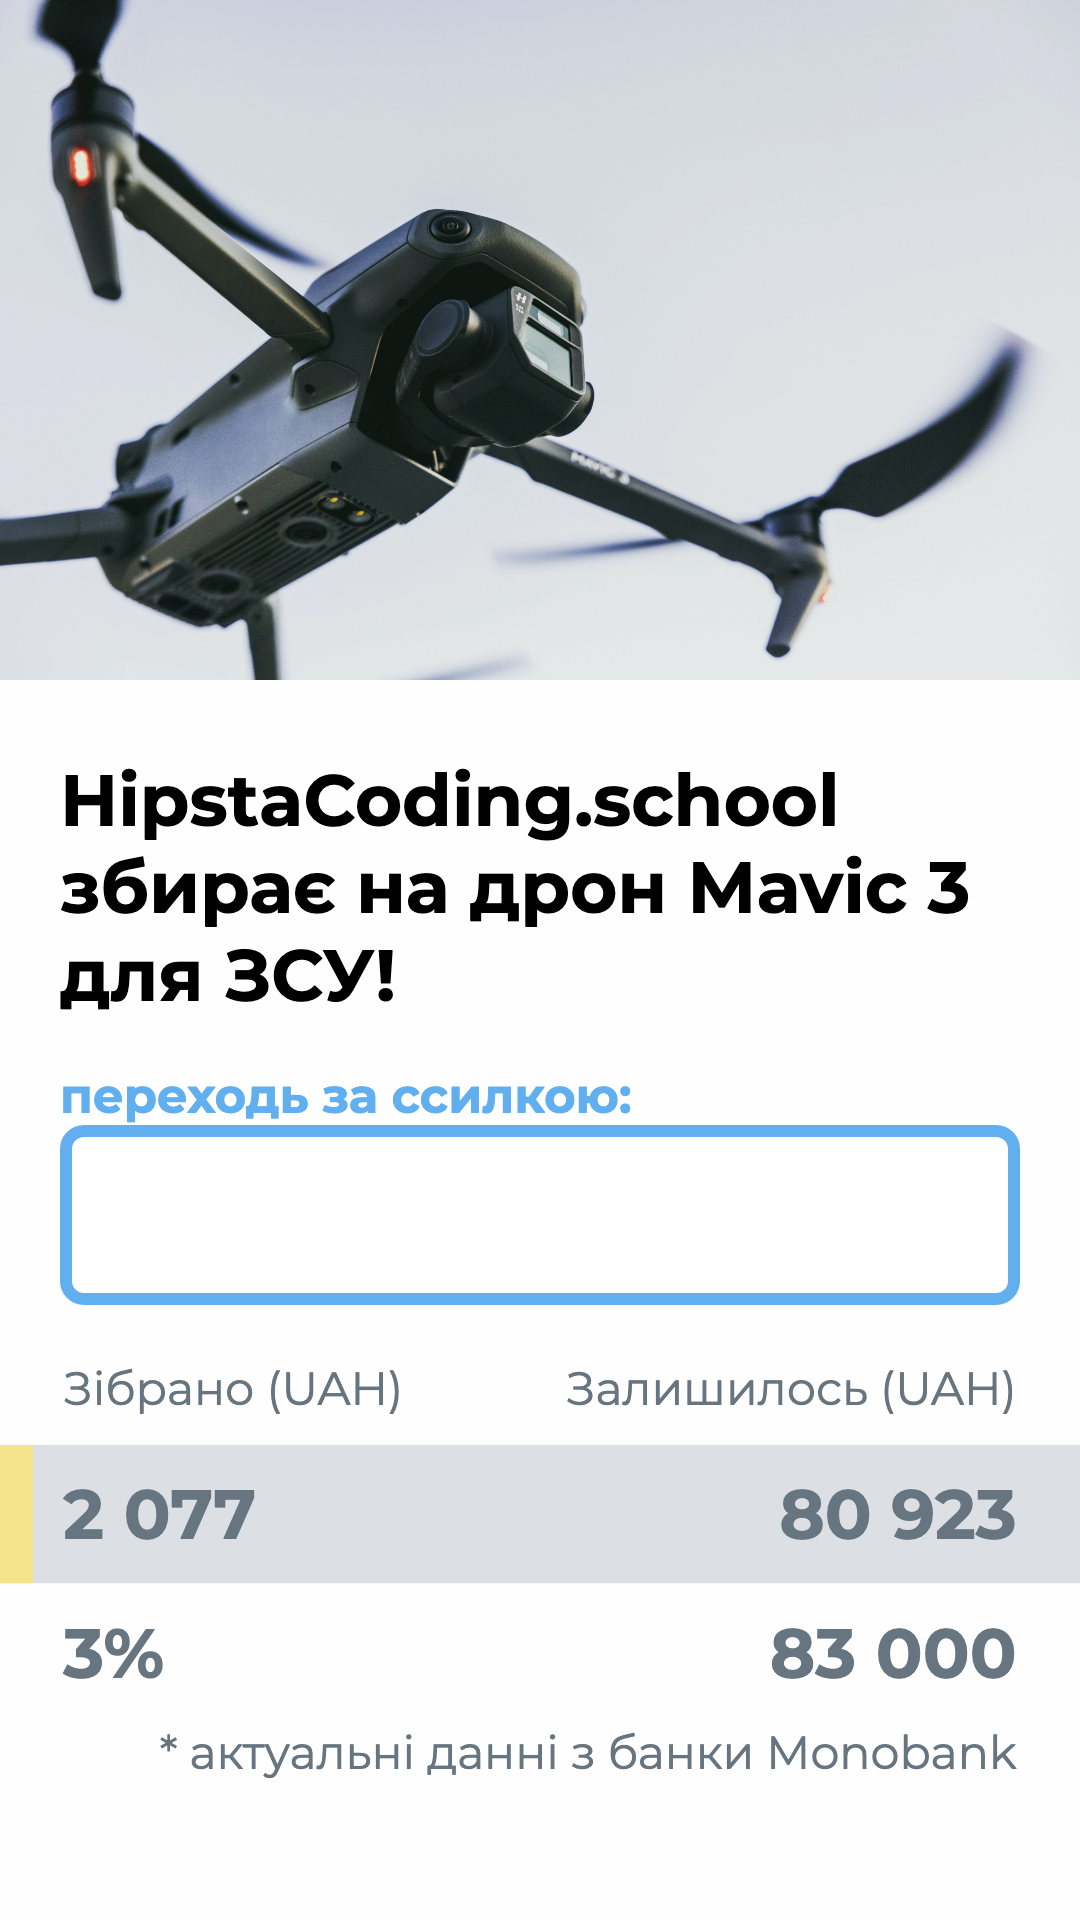
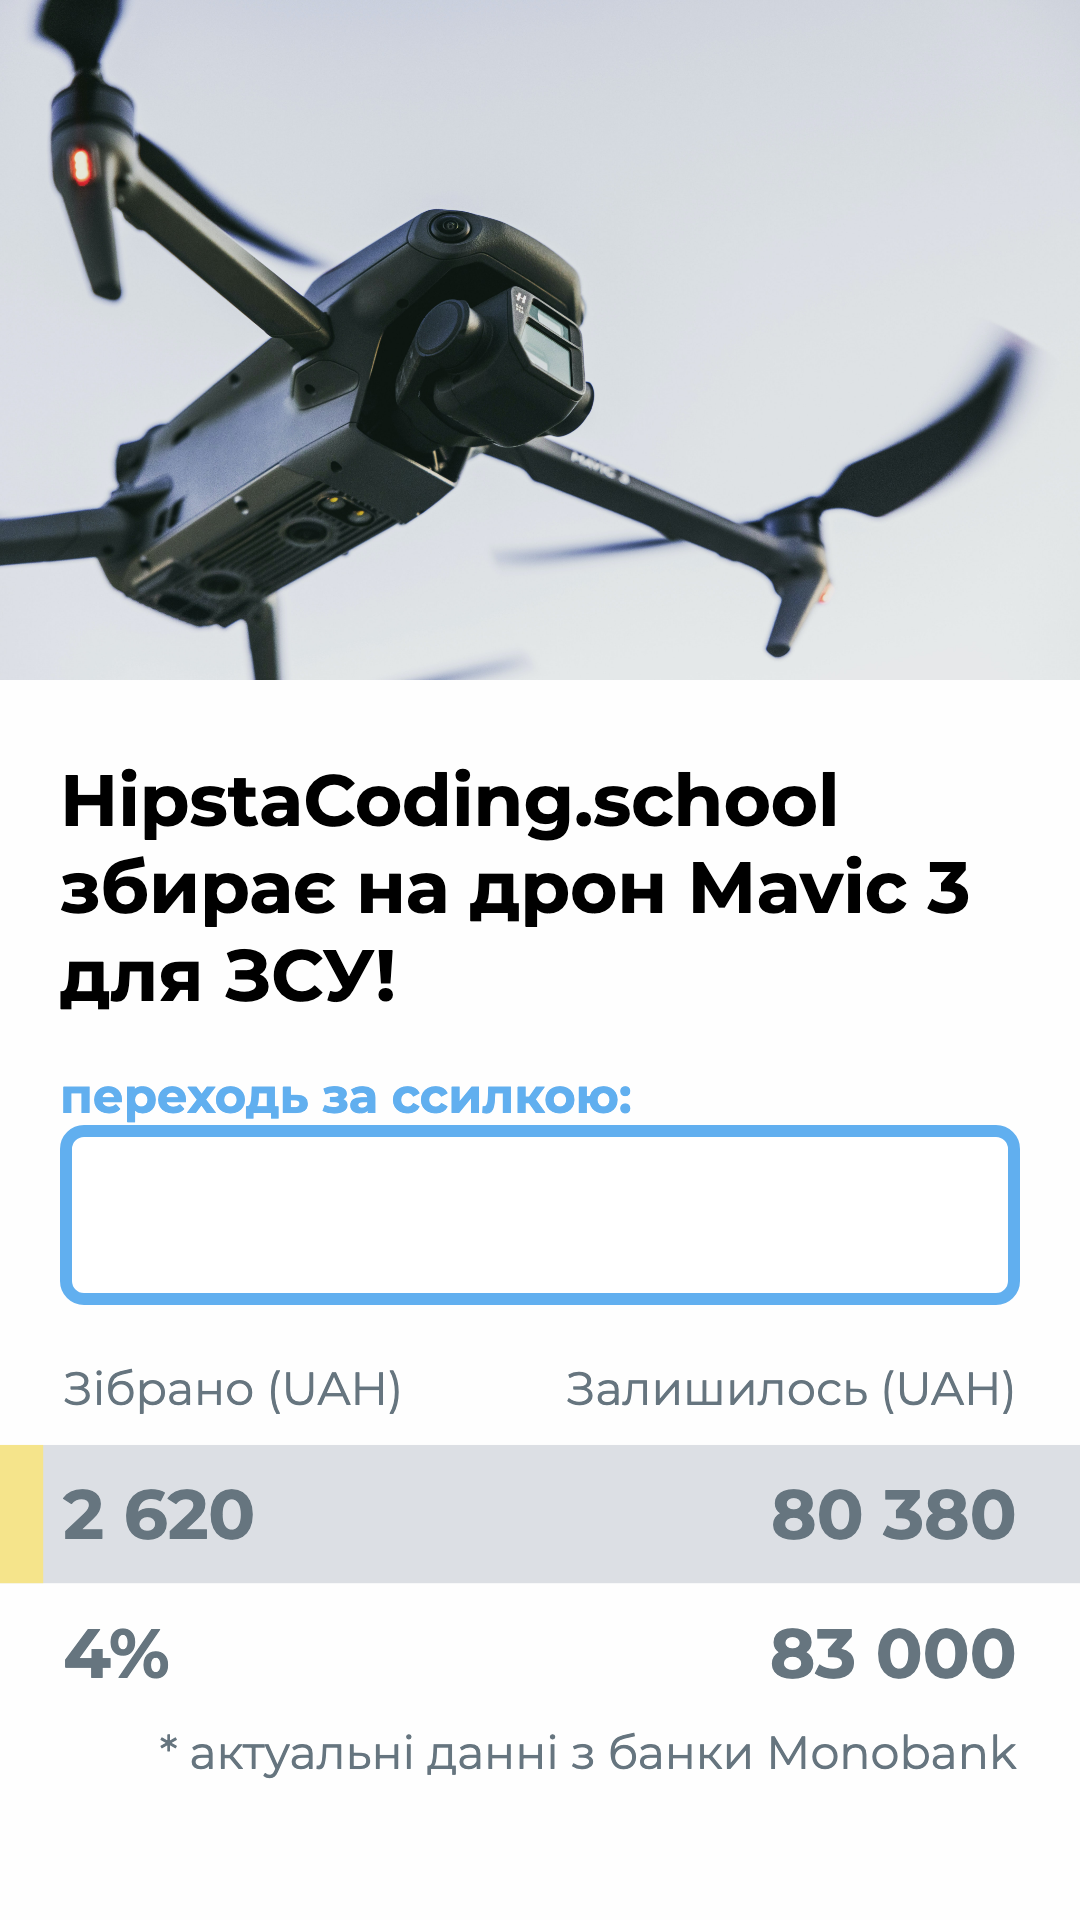
add sharing to twitter and facebook

diff --git a/features/social-sharing/twitter-post.js b/features/social-sharing/twitter-post.js
@@ -5,28 +5,25 @@ const font2base64 = require("node-font2base64");
 const formatMonobankData = require("../donation-tracker/formatMonobankData");
 const { imageFromBufferToBase64 } = require("../../utils/toBase64");
 
-const INSTA_STORY_TEMPLATE_HTML = "views/social-sharing/story.hbs";
+const INSTA_STORY_TEMPLATE_HTML = "views/social-sharing/twitter.hbs";
 const COMPONENTS_CSS = "views/social-sharing/components.css";
-const STORY_CSS = "views/social-sharing/story.css";
+const TWITTER_CSS = "views/social-sharing/twitter.css";
 const VARIABLES_CSS = "views/social-sharing/variables.css";
 const OVERRIDES_CSS = "views/social-sharing/overrides.css";
 const HERO_IMG = "views/images/mavic3.jpg";
 
-const CSS_FILES = [VARIABLES_CSS, OVERRIDES_CSS, COMPONENTS_CSS, STORY_CSS];
+const CSS_FILES = [VARIABLES_CSS, OVERRIDES_CSS, COMPONENTS_CSS, TWITTER_CSS];
 
 // TELL ABOUT THIS FUNCTION WHY WE NEED IT
 const getPageTemplate = (pagePath) => fs.readFile(pagePath, { encoding: "utf-8" });
 
-const getInstaStoryParams = async () => {
-  console.log("getInstaStoryParams 0");
+const getTwitterPostParams = async () => {
   const font = await font2base64.encodeToDataUrl("views/fonts/fonts.ttf");
-  console.log("getInstaStoryParams 1");
   const [imageContent, ...cssPages] = await Promise.all(
     [fs.readFile(HERO_IMG)].concat(
       CSS_FILES.map((path) => fs.readFile(path, { encoding: "utf-8" }))
     )
   );
-  console.log("getInstaStoryParams 2");
   const css = cssPages.join("\n");
   const heroImg = imageFromBufferToBase64(imageContent);
 
@@ -37,17 +34,16 @@ const getInstaStoryParams = async () => {
   };
 };
 
-async function createInstagramStoryImage(jar) {
-
+async function createTwitterPostImage(jar) {
   const promises = [
-    getInstaStoryParams(),
+    getTwitterPostParams(),
     getPageTemplate(INSTA_STORY_TEMPLATE_HTML),
   ];
   const [{ font, css, heroImg }, page] = await Promise.all(promises);
 
   const data = formatMonobankData(jar);
   await nodeHtmlToImage({
-    output: "public/images/story.jpg",
+    output: "public/images/twitter.jpg",
     html: page,
     puppeteerArgs: {
       args: ["--no-sandbox"],
@@ -64,6 +60,6 @@ async function createInstagramStoryImage(jar) {
 }
 
 module.exports = {
-  createInstagramStoryImage,
-  getInstaStoryParams,
+  createTwitterPostImage,
+  getTwitterPostParams,
 };

diff --git a/features/social-sharing/routes.js b/features/social-sharing/routes.js
@@ -1,6 +1,7 @@
 const express = require("express");
 const router = express.Router();
 const { getInstaStoryParams } = require('./instagram-story');
+const { getTwitterPostParams } = require('./twitter-post');
 
 const getMonobankClientData = require("../donation-tracker/getMonobankClientInfo");
 const formatMonobankData = require("../donation-tracker/formatMonobankData");
@@ -20,6 +21,23 @@ router.get("/images/instagram/story", async function (_req, res) {
     ...data,
   });
 });
+
+router.get("/images/twitter", async function (_req, res) {
+  const [{ font, css, heroImg }, jar] = await Promise.all([
+    getTwitterPostParams(),
+    getMonobankClientData(),
+  ]);
+
+  const data = formatMonobankData(jar);
+  
+  return res.render("social-sharing/twitter", {
+    css,
+    heroImg,
+    font,
+    ...data,
+  });
+});
+
 
 router.get("/instagram", async function (req, res) {
   res.render("index");

diff --git a/app.js b/app.js
@@ -16,6 +16,7 @@ const usersRouter = require("./features/subscription/router");
 const ladderRouter = require("./features/ladder/routes");
 const donationTrackerRouter = require("./features/donation-tracker/routes");
 const nocache = require('nocache');
+const { createTwitterPostImage } = require("./features/social-sharing/twitter-post");
 
 const app = express();
 
@@ -49,6 +50,7 @@ app.use(function (err, req, res, next) {
 
 
 getMonobankClientData()
+  .then(createTwitterPostImage)
   .then(createInstagramStoryImage)
   .then(subscribe);
 

diff --git a/features/subscription/onSubscribe.js b/features/subscription/onSubscribe.js
@@ -1,5 +1,6 @@
 const getMonobankClientData = require("../donation-tracker/getMonobankClientInfo");
 const { createInstagramStoryImage } = require("../social-sharing/instagram-story");
+const { createTwitterPostImage } = require("../social-sharing/twitter-post");
 const io = require("../../io");
 const cache = require('../../utils/cache');
 
@@ -20,4 +21,5 @@ module.exports = async function onSubscribe(data) {
   cache.set('jar', jar);
 
   await createInstagramStoryImage(jar);
+  await createTwitterPostImage(jar);
 }

diff --git a/views/social-sharing/twitter.css b/views/social-sharing/twitter.css
@@ -1,0 +1,34 @@
+html, body {
+  width: 1200px;
+  height: 630px;
+  display: block;
+  overflow: hidden;
+}
+
+body {
+  max-width: initial;
+  margin: initial;
+  background-color: var(--color-background);
+  display: flex;
+  flex-direction: row;
+}
+
+img {
+  object-fit: cover;
+}
+
+.title {
+  margin-top: 72px;
+  font-size: 40px;
+}
+
+main {
+  padding: 0 30px;
+}
+
+#dt {
+  margin: 100px -30px 0;
+  transform: scale(1.5);
+  transform-origin: 0 0;
+  width: 375px
+}
